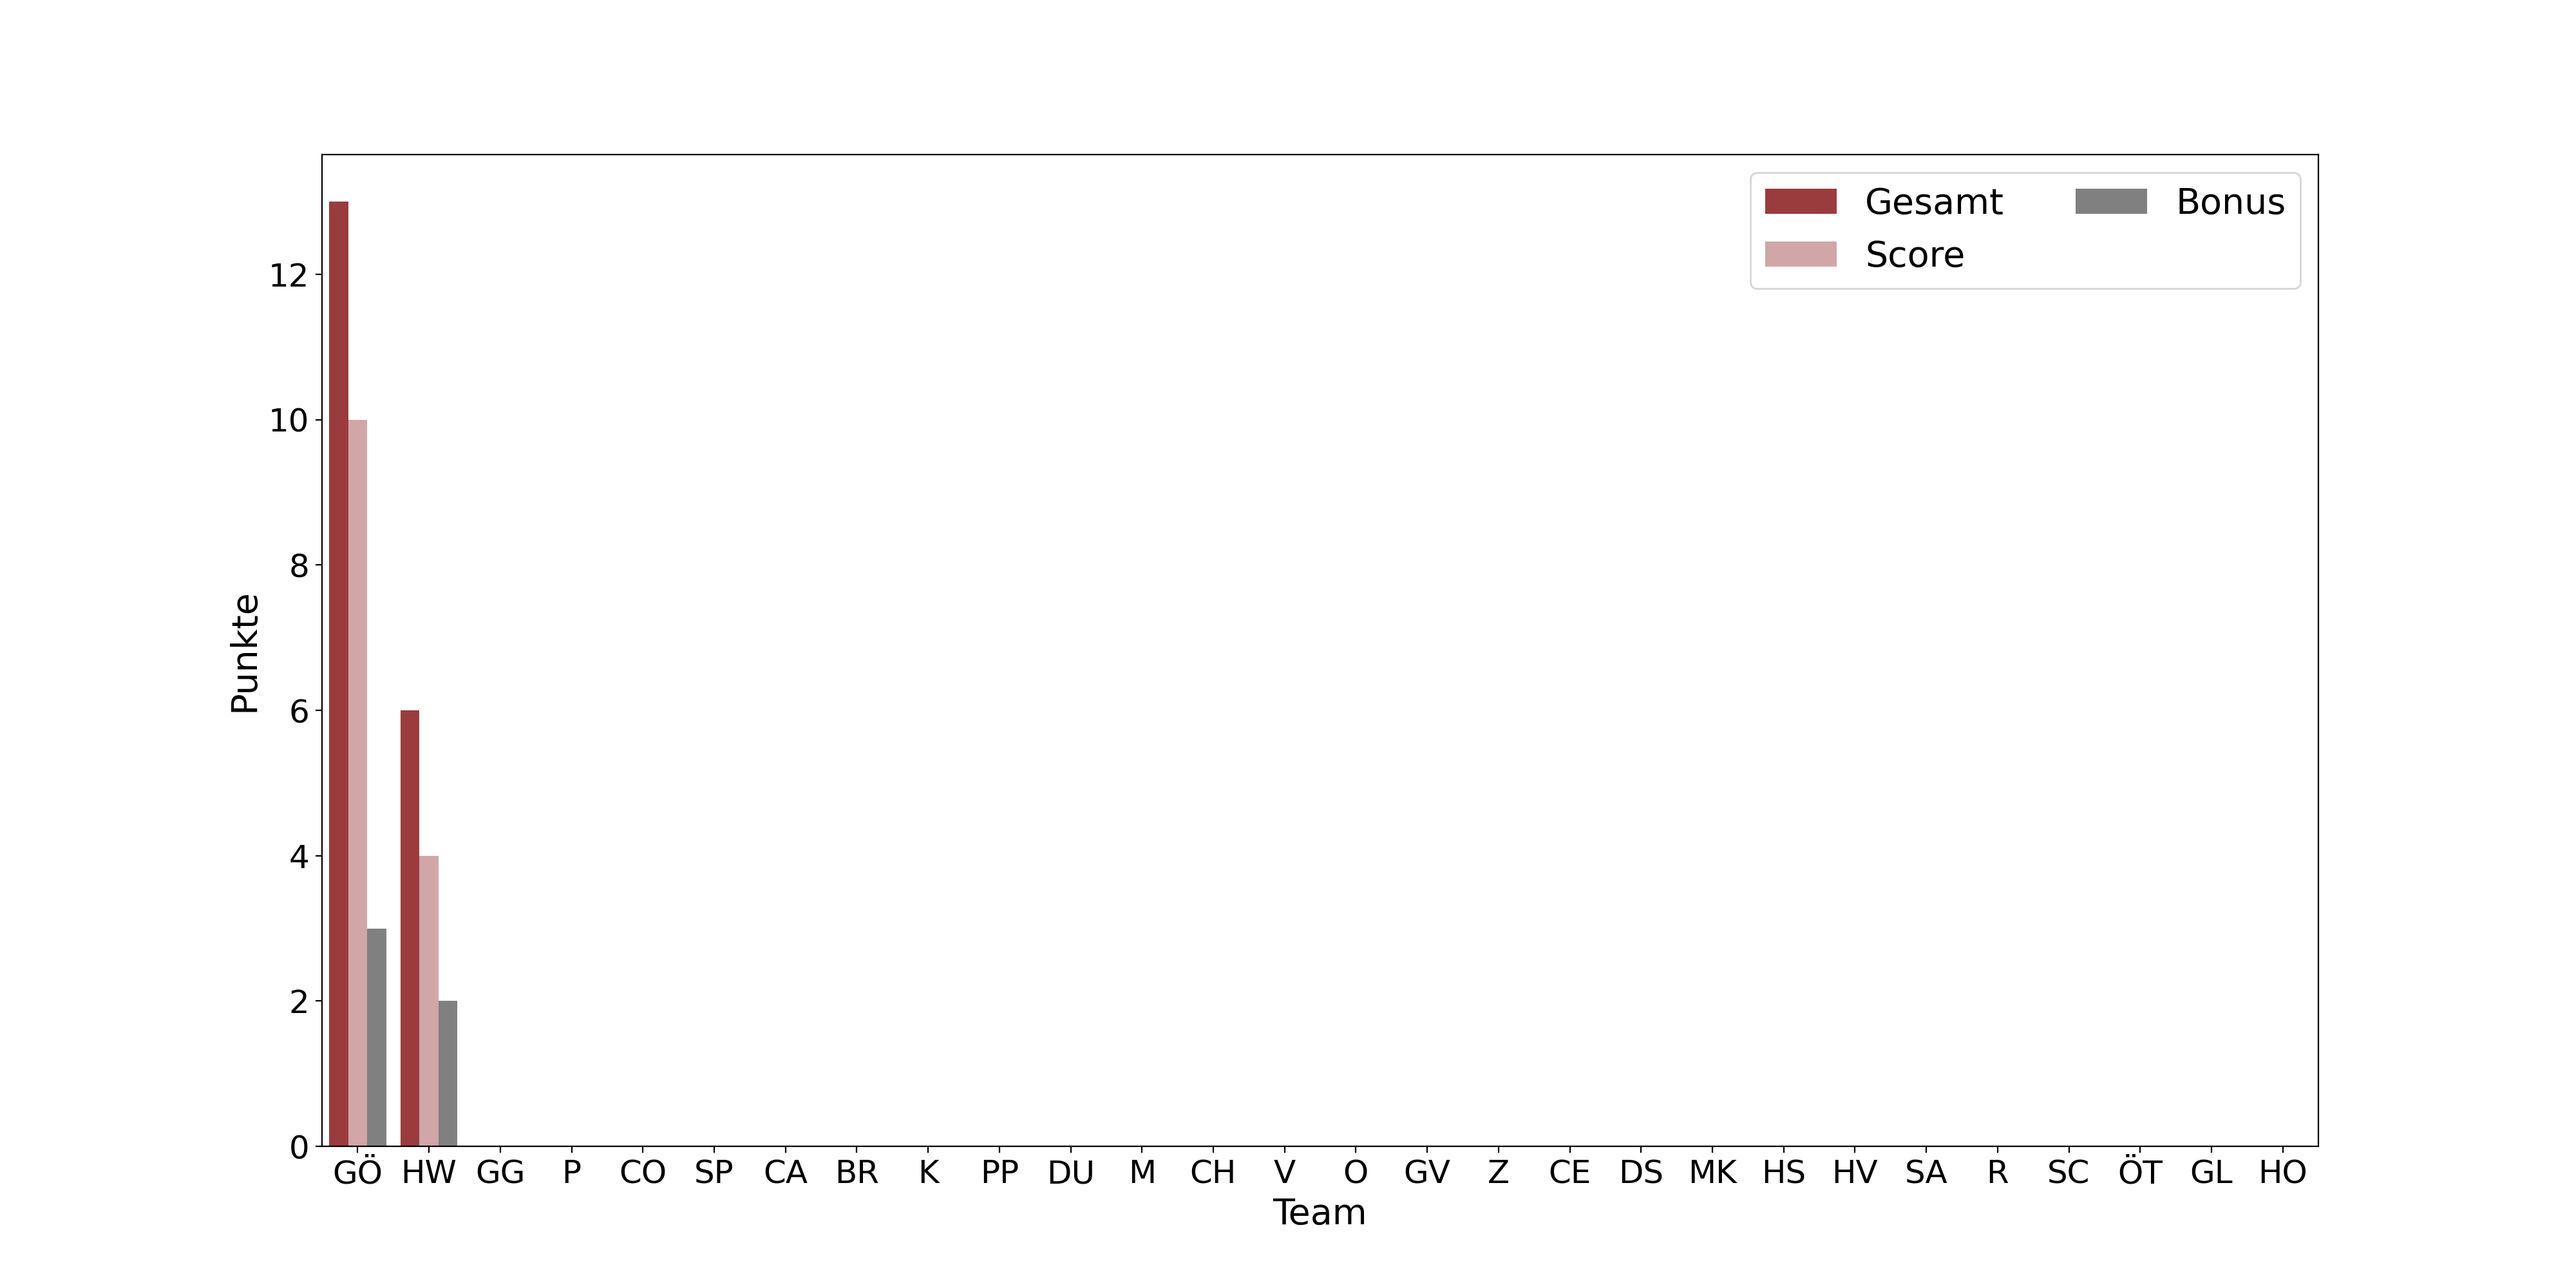
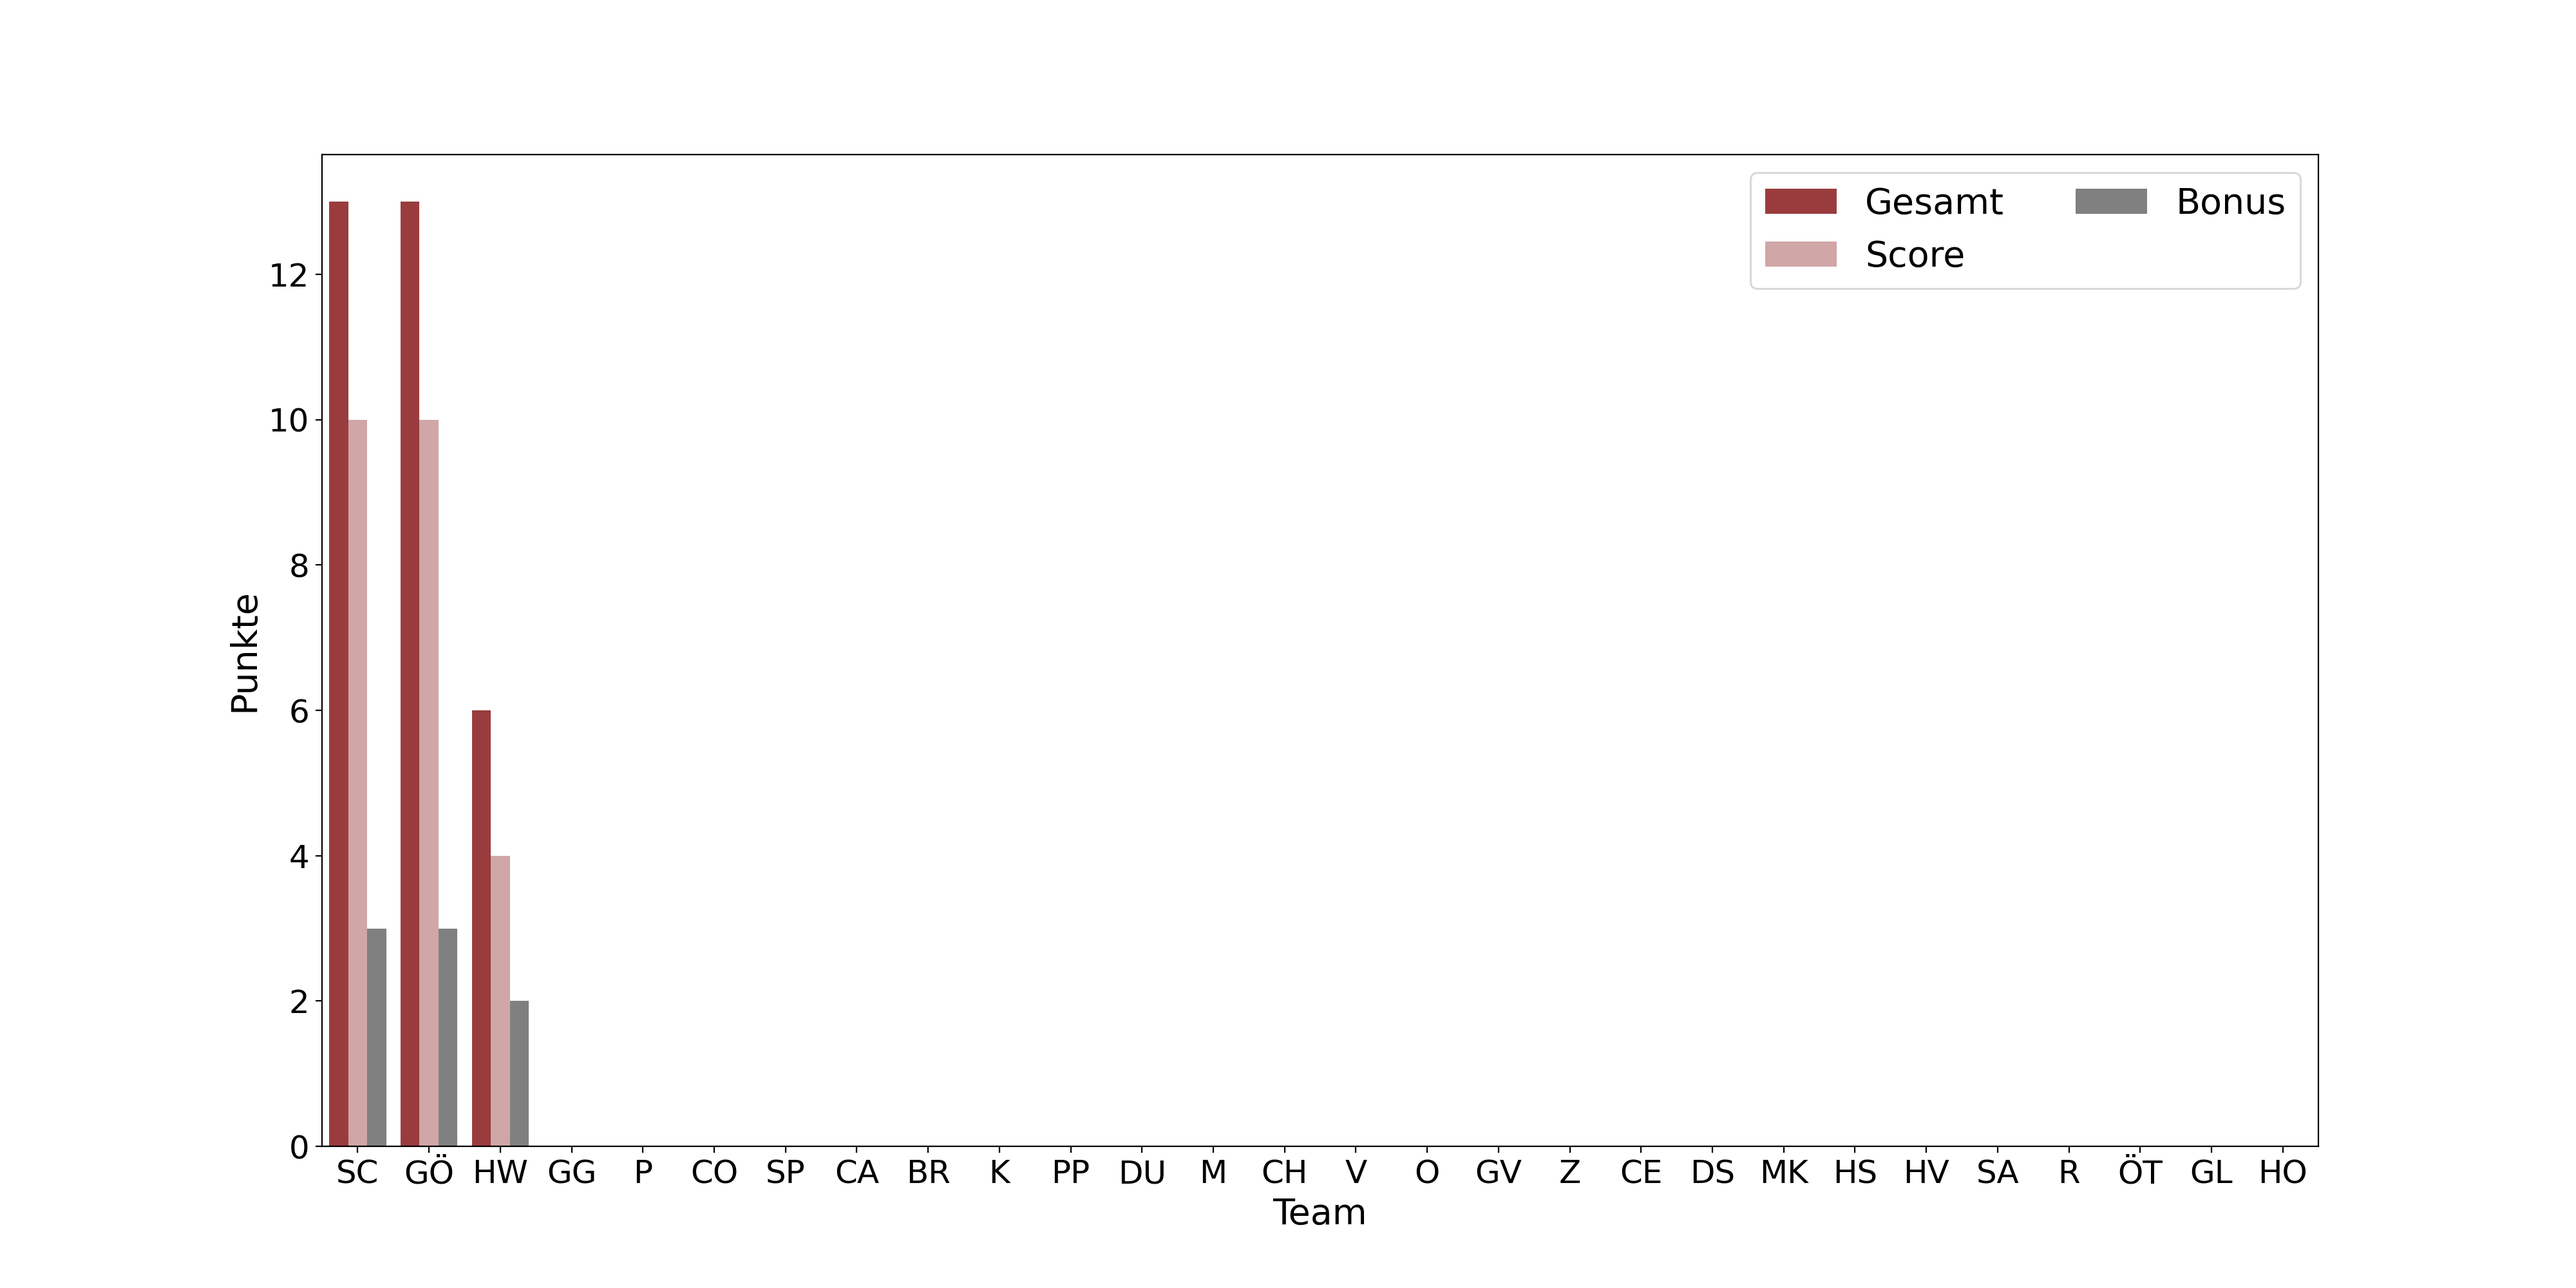
update

Changed region(s): [[0.125, 0.155, 0.8125, 0.93]]

diff --git a/css/style_teams.css b/css/style_teams.css
@@ -31,7 +31,7 @@
             background-color: #daeaf6
         }
         .O {
-            order: 14
+            order: 15
         }
         .O .team__all-points::after{ 
             content: " 0"
@@ -51,7 +51,7 @@
             background-color: #9bd0b7
         }
         .Z {
-            order: 16
+            order: 17
         }
         .Z .team__all-points::after{
             content: "0"
@@ -72,7 +72,7 @@
             background-color: #c23a22
         }
         .M {
-            order: 11
+            order: 12
         }
         .M .team__all-points::after{
             content: "0 "
@@ -92,7 +92,7 @@
             background-color: #dab894
         }
         .DS {
-            order: 18
+            order: 19
         }
         .DS .team__all-points::after{
             content: "0"
@@ -112,7 +112,7 @@
             background-color: #d6eadf
         }
         .DU {
-            order: 10
+            order: 11
         }
         .DU .team__all-points::after{
             content: "0"
@@ -154,7 +154,7 @@
             background-color: #E0BBE4
         }
         .GG {
-            order: 2
+            order: 3
         }
         .GG .team__all-points::after{
              content: "0"
@@ -174,7 +174,7 @@
             background-color: #d291bc
         }
         .CH {
-            order: 12
+            order: 13
         }
         .CH .team__all-points::after{
             content: "0"
@@ -194,7 +194,7 @@
             background-color: #c2d5a8
         }
         .GO {
-            order: 0
+            order: 1
         }
         .GO .team__all-points::after{
             content: "13"
@@ -214,7 +214,7 @@
             background-color: #ffdfdc
         }
         .GV {
-            order: 15
+            order: 16
         }
         .GV .team__all-points::after{
             content: "0"
@@ -222,22 +222,22 @@
 
 
         .SC .team__score::after {
-            content: "0/100"
+            content: "10/100"
         }
         .SC .team__stations::after {
-            content: "0/10"
+            content: "1/10"
         }
         .SC .team__bonus::after {
-            content: "0/30"
+            content: "3/30"
         }
         .SC .team__logo {
             background-color: #9d8189
         }
         .SC {
-            order: 24
+            order: 0
         }
         .SC .team__all-points::after{
-            content: "0"
+            content: "13"
         }
 
 
@@ -254,7 +254,7 @@
             background-color: #cccccc
         }
         .V {
-            order: 13
+            order: 14
         }
         .V .team__all-points::after{
             content: "0"
@@ -274,7 +274,7 @@
             background-color: #9cadce
         }
         .MK {
-            order: 19
+            order: 20
         }
         .MK .team__all-points::after{
             content: "0"
@@ -294,7 +294,7 @@
             background-color: #a2d2ff
         }
         .SA {
-            order: 22
+            order: 23
         }
         .SA .team__all-points::after{
             content: "0"
@@ -314,7 +314,7 @@
             background-color: #5d5b6a
         }
         .P {
-            order: 3
+            order: 4
         }
         .P .team__all-points::after{
             content: "0"
@@ -334,7 +334,7 @@
             background-color: #ffafcc
         }
         .R {
-            order: 23
+            order: 24
         }
         .R .team__all-points::after{
             content: "0"
@@ -355,7 +355,7 @@
             background-color: #efe9ae
         }
         .HS {
-            order: 20
+            order: 21
         }
         .HS .team__all-points::after{
             content: "0"
@@ -376,7 +376,7 @@
             background-color: #ff928b
         }
         .CE {
-            order: 17
+            order: 18
         }
         .CE .team__all-points::after{
             content: "0"
@@ -396,7 +396,7 @@
             background-color: #7ec4cf
         }
         .PP {
-            order: 9
+            order: 10
         }
         .PP .team__all-points::after{
             content: "0"
@@ -416,7 +416,7 @@
             background-color: #758184
         }
         .HW {
-            order: 1
+            order: 2
         }
         .HW .team__all-points::after{
             content: "6"
@@ -436,7 +436,7 @@
             background-color: #ff8fab
         }
         .K {
-            order: 8
+            order: 9
         }
         .K .team__all-points::after{
             content: "0"
@@ -456,7 +456,7 @@
             background-color: #ff6663
         }
         .CO {
-            order: 4
+            order: 5
         }
         .CO .team__all-points::after{
             content: "0"
@@ -476,7 +476,7 @@
             background-color: #b8e0d2
         }
         .HV {
-            order: 21
+            order: 22
         }
         .HV .team__all-points::after{
             content: "0"
@@ -496,7 +496,7 @@
             background-color: #e8d1c5
         }
         .BR {
-            order: 7
+            order: 8
         }
         .BR .team__all-points::after{
             content: "0"
@@ -516,7 +516,7 @@
             background-color: #ffc8dd
         }
         .CA {
-            order: 6
+            order: 7
         }
         .CA .team__all-points::after{
             content: "0"
@@ -535,7 +535,7 @@
             background-color: #f6bc66
         }
         .SP {
-            order: 5
+            order: 6
         }
         .SP .team__all-points::after{
             content: "0"

diff --git a/css/style_station.css b/css/style_station.css
@@ -16,7 +16,7 @@
         }
 
         .E .station__teams::after {
-            content: "0/28"
+            content: "1/28"
         }
 
         .F .station__teams::after {
